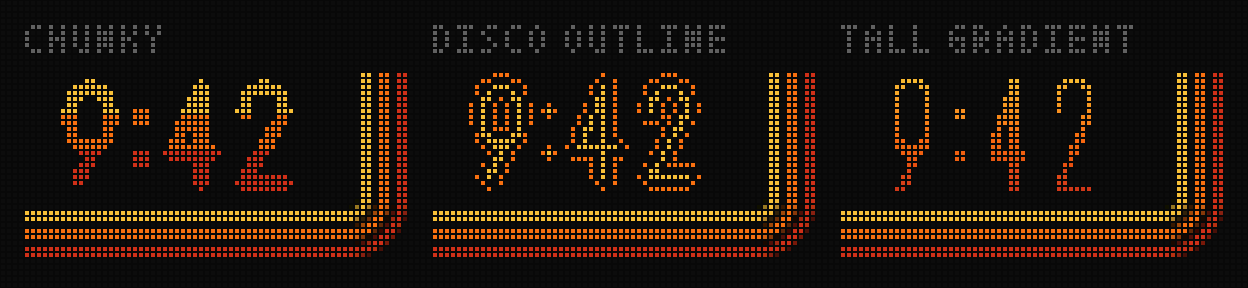
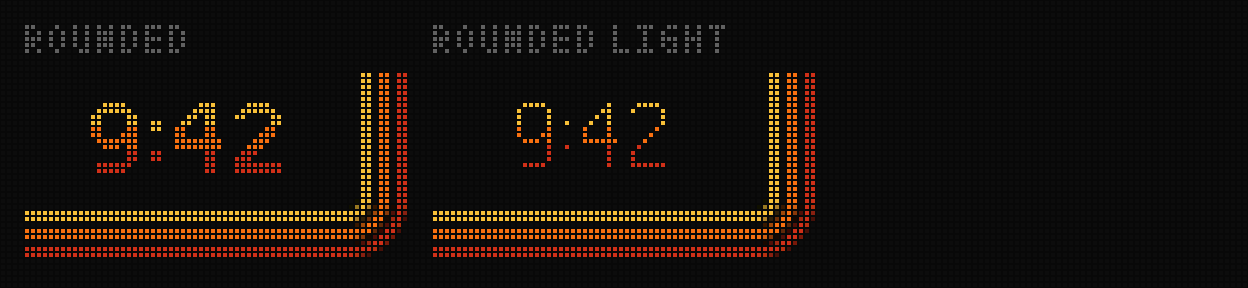
Clock mockups: rounded digits for the Seventies face
Replaces the Chunky, Disco and Tall styles with two hand-drawn rounded
bitmaps: Rounded (8 x 12, 2 px strokes) and Rounded light (6 x 11, 1 px).

Claude-Session: https://claude.ai/code/session_01G1nRWyzFLBm1UDWgk7vfPB

diff --git a/scripts/mock-clock/faces.js b/scripts/mock-clock/faces.js
@@ -991,35 +991,61 @@
   const band = (v) => C70[Math.min(2, Math.floor(v * 3))];
   const grad = (v) => (v < 0.5 ? mix(C70[0], C70[1], v * 2) : mix(C70[1], C70[2], (v - 0.5) * 2));
 
+  // Hand-drawn rounded digit bitmaps (rows top to bottom, '#' lit).
+  const ROUND = {
+    w: 8, h: 12, colon: [3, 8],
+    0: ['..####..', '.######.', '##....##', '##....##', '##....##', '##....##', '##....##', '##....##', '##....##', '##....##', '.######.', '..####..'],
+    1: ['...##...', '..###...', '.####...', '...##...', '...##...', '...##...', '...##...', '...##...', '...##...', '...##...', '...##...', '...##...'],
+    2: ['..####..', '.######.', '##....##', '......##', '.....##.', '....###.', '...###..', '..###...', '.###....', '###.....', '########', '########'],
+    3: ['..####..', '.######.', '##....##', '......##', '......##', '...####.', '...####.', '......##', '......##', '##....##', '.######.', '..####..'],
+    4: ['....###.', '...####.', '..##.##.', '.##..##.', '##...##.', '##...##.', '########', '########', '.....##.', '.....##.', '.....##.', '.....##.'],
+    5: ['########', '########', '##......', '##......', '######..', '#######.', '......##', '......##', '......##', '##....##', '.######.', '..####..'],
+    6: ['..#####.', '.######.', '##......', '##......', '##.###..', '#######.', '###...##', '##....##', '##....##', '##....##', '.######.', '..####..'],
+    7: ['########', '########', '......##', '.....##.', '.....##.', '....##..', '....##..', '...##...', '...##...', '..##....', '..##....', '..##....'],
+    8: ['..####..', '.######.', '##....##', '##....##', '##....##', '.######.', '.######.', '##....##', '##....##', '##....##', '.######.', '..####..'],
+  };
+  ROUND[9] = ROUND[6].map((r) => [...r].reverse().join('')).reverse();
+  const LIGHT = {
+    w: 6, h: 11, colon: [3, 7],
+    0: ['.####.', '#....#', '#....#', '#....#', '#....#', '#....#', '#....#', '#....#', '#....#', '#....#', '.####.'],
+    1: ['..#...', '.##...', '#.#...', '..#...', '..#...', '..#...', '..#...', '..#...', '..#...', '..#...', '..#...'],
+    2: ['.####.', '#....#', '.....#', '.....#', '....#.', '...#..', '..#...', '.#....', '#.....', '#.....', '######'],
+    3: ['.####.', '#....#', '.....#', '.....#', '.....#', '..###.', '.....#', '.....#', '.....#', '#....#', '.####.'],
+    4: ['....#.', '...##.', '..#.#.', '.#..#.', '#...#.', '#...#.', '######', '....#.', '....#.', '....#.', '....#.'],
+    5: ['######', '#.....', '#.....', '#.....', '#####.', '.....#', '.....#', '.....#', '.....#', '#....#', '.####.'],
+    6: ['.####.', '#.....', '#.....', '#.....', '#.###.', '##...#', '#....#', '#....#', '#....#', '#....#', '.####.'],
+    7: ['######', '.....#', '.....#', '....#.', '....#.', '...#..', '...#..', '..#...', '..#...', '..#...', '..#...'],
+    8: ['.####.', '#....#', '#....#', '#....#', '#....#', '.####.', '#....#', '#....#', '#....#', '#....#', '.####.'],
+  };
+  LIGHT[9] = LIGHT[6].map((r) => [...r].reverse().join('')).reverse();
+
+  // H:MM in a bitmap font, centered on cx, top row y0; color(v) per row (0..1).
+  function bitmapTime(f, t, F, { gap, cx, y0, dot, color }) {
+    const hh = String(t.h12), mm = String(t.m).padStart(2, '0');
+    const total = (hh.length + 2) * F.w + (hh.length + 1) * gap + dot + gap;
+    let x = Math.round(cx - (total - 1) / 2);
+    const digit = (ch) => { F[ch].forEach((row, j) => [...row].forEach((c, i) => { if (c === '#') f.plot(x + i, y0 + j, color(j / (F.h - 1))); })); x += F.w + gap; };
+    [...hh].forEach(digit);
+    for (const r of F.colon) f.fill(x, y0 + r, dot, dot, color(r / (F.h - 1)));
+    x += dot + gap;
+    [...mm].forEach(digit);
+  }
+
   const S70 = [
     {
-      id: 's70-chunky', group: 'S70', title: 'Chunky',
-      note: 'Fat 3 px round-ended strokes on squared-off curves (Cooper/Avant Garde territory), banded sunflower, orange and rust top to bottom.',
+      id: 's70-round', group: 'S70', title: 'Rounded',
+      note: '8 x 12 hand-drawn digits with 2 px strokes and rounded corners (VAG Rounded territory), banded sunflower, orange and rust like the original. Same weight as the 9x15 bold, a size smaller.',
       draw(f, t) {
         stripes70(f, 54, 21, [3, 6, 9]);
-        const L = time70(f, t, { w: 10, h: 19, inset: 1.2, gap: 2, colonW: 3, x0: t.h12 > 9 ? 0 : 6, y0: 1, paint: (d, v) => (d <= 1.25 ? band(v) : null) });
-        L.colon((x, y) => { f.fill(x, y + 5, 3, 3, band(6 / 18)); f.fill(x, y + 12, 3, 3, band(13 / 18)); });
-        L.rest();
+        bitmapTime(f, t, ROUND, { gap: 2, cx: 26, y0: 5, dot: 2, color: band });
       },
     },
     {
-      id: 's70-disco', group: 'S70', title: 'Disco outline',
-      note: 'A thin sunflower stroke inside an orange outline, like 70s inline lettering. Lighter on the panel than Chunky, and echoes the stripes.',
+      id: 's70-round-light', group: 'S70', title: 'Rounded light',
+      note: '6 x 11 digits with 1 px strokes and rounded corners. Lighter and smaller, leaving more black around the stripes; banded the same way.',
       draw(f, t) {
         stripes70(f, 54, 21, [3, 6, 9]);
-        const L = time70(f, t, { w: 11, h: 20, inset: 2.2, gap: 1, colonW: 3, x0: t.h12 > 9 ? 0 : 6, y0: 0, paint: (d) => (d <= 0.6 ? C70[0] : d > 1.5 && d <= 2.3 ? C70[1] : null) });
-        L.colon((x, y) => { f.fill(x + 1, y + 6, 1, 1, C70[0]); f.fill(x + 1, y + 13, 1, 1, C70[0]); for (const [dx, dy] of [[0, 0], [2, 0], [1, -1], [1, 1]]) { f.plot(x + dx, y + 6 + dy, C70[1]); f.plot(x + dx, y + 13 + dy, C70[1]); } });
-        L.rest();
-      },
-    },
-    {
-      id: 's70-tall', group: 'S70', title: 'Tall gradient',
-      note: 'Tall, narrow 2 px strokes with a smooth sunset fade from sunflower to rust. The narrow cells leave room to keep the stripes wide.',
-      draw(f, t) {
-        stripes70(f, 54, 21, [3, 6, 9]);
-        const L = time70(f, t, { w: 8, h: 21, inset: 0.8, gap: 3, colonW: 2, x0: t.h12 > 9 ? 2 : 8, y0: 0, paint: (d, v) => (d <= 0.8 ? grad(v) : null) });
-        L.colon((x, y) => { f.fill(x, y + 6, 2, 2, grad(0.3)); f.fill(x, y + 13, 2, 2, grad(0.65)); });
-        L.rest();
+        bitmapTime(f, t, LIGHT, { gap: 2, cx: 26, y0: 5, dot: 1, color: band });
       },
     },
   ];

diff --git a/scripts/mock-clock/page.html b/scripts/mock-clock/page.html
@@ -91,7 +91,7 @@ const ENV = /*__ENV__*/null;
 (function () {
   const { FACES, render } = self.ClockFaces;
   const GROUPS = {
-    S70: ['Seventies fonts', 'The Seventies face with three hand-built digit styles (stroked paths, no font file). The original, in the 9x15 bold, is first under Round 3.'],
+    S70: ['Seventies fonts', 'The Seventies face with rounded, hand-drawn digits. The original, in the 9x15 bold, is first under Round 3.'],
     R3: ['Round 3', 'Time only. One aesthetic each.'],
     KEEP: ['Basic', 'Kept from round 1.'],
     R2: ['Creative', 'Round 2. Most of these tie back to the CTA or Chicago.'],
